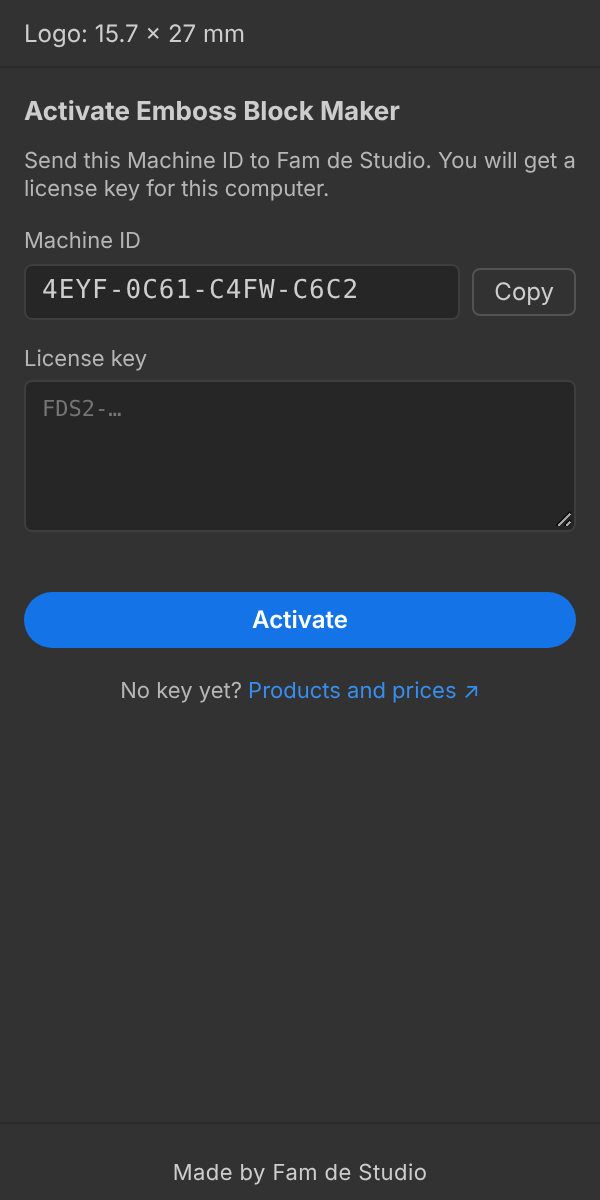
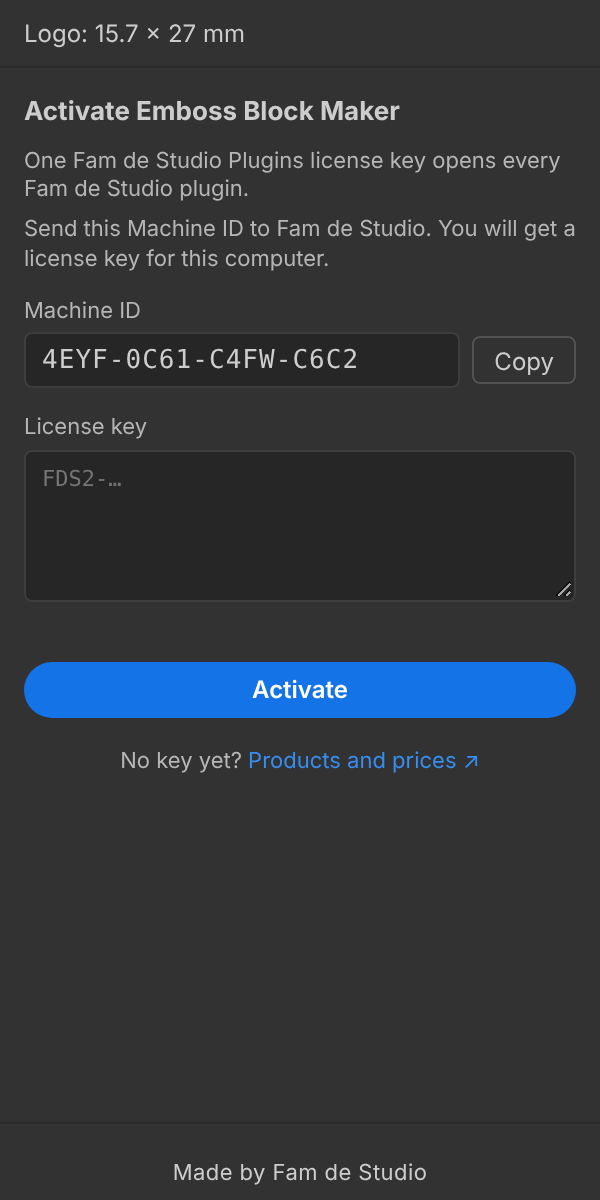
Plans and pricing: one Plugins licence for every Illustrator plugin, PlateFix on its own, Full Package; new plugin Approval Proof

diff --git a/README.md b/README.md
@@ -2,17 +2,18 @@
 
 **Professional prepress tools for printing and packaging, by Fam de Studio.**
 
-Save hours of repetitive work on every job: plate-ready PDFs, printer marks, ups numbering, emboss blocks and image checks, done in seconds and done the same way every time.
+Save hours of repetitive work on every job: plate-ready PDFs, printer marks, ups numbering, emboss blocks, image checks and client approval proofs, done in seconds and done the same way every time.
 
-| Product | Type | What it does |
-|---|---|---|
-| **PlateFix** | Windows app | Cuts print-ready PDFs to plate size, merges spot colours, sets black overprint, checks every file |
-| **Print Marks** | Adobe Illustrator plugin | Crop marks, side lay, gray scale, job slug and ink boxes on the press sheet |
-| **Ups Number** | Adobe Illustrator plugin, included with Print Marks | Numbers every up on the sheet from one 01, with the shift / year mark |
-| **Emboss Block Maker** | Adobe Illustrator plugin | Builds a complete emboss block sheet from any logo or text in one click |
-| **Image Check** | Adobe Illustrator plugin | Finds every RGB image, low resolution image and missing link in the file, linked or embedded |
+| Product | Type | Licence | What it does |
+|---|---|---|---|
+| **PlateFix** | Windows app | PlateFix | Cuts print-ready PDFs to plate size, merges spot colours, sets black overprint, checks every file |
+| **Print Marks** | Adobe Illustrator plugin | Plugins | Crop marks, side lay, gray scale, job slug and ink boxes on the press sheet |
+| **Ups Number** | Adobe Illustrator plugin | Plugins | Numbers every up on the sheet from one 01, with the shift / year mark |
+| **Emboss Block Maker** | Adobe Illustrator plugin | Plugins | Builds a complete emboss block sheet from any logo or text in one click |
+| **Image Check** | Adobe Illustrator plugin | Plugins | Finds every RGB image, low resolution image and missing link in the file, linked or embedded |
+| **Approval Proof** | Adobe Illustrator plugin | Plugins | Ready-to-send client proofs (JPEG / PDF) with the die line sizes measured for you |
 
-**Try any product free for 7 days.** One installer, pick only what you need.
+**One Plugins licence opens every Illustrator plugin. PlateFix has its own licence.** Try either one free for 7 days. One installer, pick only what you need.
 
 ---
 
@@ -48,7 +49,7 @@ Select the dieline and click **Add Marks**. Everything a press sheet needs, in y
 
 <img src="docs/screenshots/ups-number.png" width="260" align="right" alt="Ups Number panel">
 
-Its own panel, **included with Print Marks** (the same licence key opens both). Type **01** in one up, select it and click **Number the Ups**:
+Its own panel, opened by the same **Plugins** licence as Print Marks. Type **01** in one up, select it and click **Number the Ups**:
 
 - Every up on the sheet gets its number: 01, 02, 03 ... in the order you choose (6 directions along rows or columns).
 - Works on joined ups too, including turned and mirrored ups; numbers are turned with their up.
@@ -88,32 +89,63 @@ Open the panel and every image in the file is checked at once, before the file g
 
 <br clear="right">
 
+## Approval Proof
+
+<img src="docs/screenshots/approval-proof.png" width="260" align="right" alt="Approval Proof panel">
+
+Fill in the job details once and click **Make Proof**. Three kinds of proof, ready to send to the client on WhatsApp or email:
+
+- **Simple:** the die line sizes and one slim line of job details (job, client, size, material, finish, quantity, proof number, date, your company) drawn **on your own artboard**, around your design. No new page, no copy of the artwork, and the artboard size is not changed.
+- **Size only:** the same, with only the die line sizes, nothing else.
+- **Full:** a complete A4 / A3 approval sheet on its own page: the design, job details, the colours used and a client approval box (Approved / Approved with changes / Not approved, name, signature, date).
+
+Every proof:
+
+- **Measures the die line for you:** the flat width and height, and every panel size between the crease lines. The die line is found by its colour, whatever it is called. The measurements keep at least 5 mm away from the die line, in one **font size** you choose.
+- **Save JPEG** for WhatsApp in one click (or a small PDF, or a high quality PDF), next to your .ai file. The size lines are included even when they sit outside your artboard.
+- **Remove Proof** takes the proof away again before the file goes to print. Your artwork is never touched.
+- Keeps the job details for the next proof and can add your logo and a **FOR APPROVAL ONLY** watermark.
+
+<br clear="right">
+
+<img src="docs/screenshots/approval-proof-sheet.png" width="520" alt="A sample Simple proof on the job's own artboard">
+
 ---
 
 ## Plans and pricing
 
-| | Monthly | Yearly | Lifetime |
-|---|---:|---:|---:|
-| **PlateFix** | PKR 2,500 | PKR 20,000 | PKR 40,000 |
-| **Print Marks** (with Ups Number) | PKR 3,000 | PKR 25,000 | PKR 50,000 |
-| **Emboss Block Maker** | PKR 1,500 | PKR 12,000 | PKR 25,000 |
-| **Image Check** | PKR 1,000 | PKR 8,000 | PKR 15,000 |
-| **Full Package (all four)** | **PKR 5,500** | **PKR 45,000** | **PKR 90,000** |
+Two licences: **Plugins** opens *every* Adobe Illustrator plugin (Print Marks, Ups Number, Emboss Block Maker, Image Check, Approval Proof, and every plugin added later), and **PlateFix** is its own licence. The **Full Package** is both together, for less.
 
-- **Yearly plans** cost about 3 months less than paying monthly.
-- **Full Package** saves about 30% compared with buying the products one by one.
+**Pakistan (PKR)**
+
+| Licence | Includes | Monthly | Yearly | Lifetime |
+|---|---|---:|---:|---:|
+| **Plugins** | Print Marks, Ups Number, Emboss Block Maker, Image Check, Approval Proof and new plugins | PKR 4,000 | PKR 32,000 | PKR 64,000 |
+| **PlateFix** | The PlateFix Windows app | PKR 2,500 | PKR 20,000 | PKR 40,000 |
+| **Full Package** | Plugins + PlateFix | **PKR 6,000** | **PKR 48,000** | **PKR 96,000** |
+
+**Outside Pakistan (USD)**
+
+| Licence | Includes | Monthly | Yearly | Lifetime |
+|---|---|---:|---:|---:|
+| **Plugins** | Print Marks, Ups Number, Emboss Block Maker, Image Check, Approval Proof and new plugins | $25 | $200 | $400 |
+| **PlateFix** | The PlateFix Windows app | $15 | $120 | $240 |
+| **Full Package** | Plugins + PlateFix | **$37** | **$296** | **$592** |
+
+- **Yearly** costs the same as 8 months: you get **4 months free**.
+- **Lifetime** costs 2 yearly payments: pay once, no renewal.
+- **Full Package** is about **8% cheaper** than buying Plugins and PlateFix separately, on every plan (monthly, yearly and lifetime).
 - **Second computer** in the same company: half price.
 - **Site licence** (every computer in your company): 3 × the yearly price.
-- **Outside Pakistan:** PlateFix $15 / month or $129 / year · Print Marks $19 / $159 · Emboss Block Maker $9 / $79 · Image Check $6 / $49 · **Full Package $35 / month or $299 / year**.
 
 ## Free 7-day trial
 
-Every product can be tried **free for 7 days with all features**, without payment:
+The Plugins licence and PlateFix can each be tried **free for 7 days with all features**, without payment:
 
-1. Install the products you want to try (see below).
-2. Open the product. It shows your computer's **Machine ID** (for example `7K2M-QX9D-4HTP-0ZRB`).
-3. Send the Machine ID to Fam de Studio and ask for a trial.
-4. Paste the trial key you receive and click **Activate**.
+1. Install what you want to try (see below).
+2. Open a plugin (or PlateFix). It shows your computer's **Machine ID** (for example `7K2M-QX9D-4HTP-0ZRB`); tap **Copy** and send it to Fam de Studio.
+3. Ask for a trial.
+4. Paste the trial key you receive and click **Activate**. One Plugins key opens every Illustrator plugin.
 
 When you buy, you receive a new key for the same computer, so nothing needs to be reinstalled. Your settings and presets stay.
 
@@ -121,7 +153,7 @@ When you buy, you receive a new key for the same computer, so nothing needs to b
 
 <img src="docs/screenshots/activation.png" width="260" align="right" alt="Activation screen">
 
-- Each product has its own licence key, made for **your computer**.
+- **One Plugins key opens every Illustrator plugin**; PlateFix has its own key. Each key is made for **your computer**.
 - Activation works **offline**: no account, no internet connection needed.
 - A reminder appears 5 days before a monthly or yearly licence ends; renewing only means pasting a new key.
 - Moving to a new computer: send the new Machine ID and you get a key for it.
@@ -136,7 +168,7 @@ When you buy, you receive a new key for the same computer, so nothing needs to b
 2. Run **`FamDeStudioTools_Setup_<version>.exe`**.
 3. Tick the products you want: one, some or all of them.
 4. Open them:
-   - Illustrator plugins: **Window > Extensions (Legacy) > Print Marks / Ups Number / Emboss Block Maker / Image Check**
+   - Illustrator plugins: **Window > Extensions (Legacy) > Print Marks / Ups Number / Emboss Block Maker / Image Check / Approval Proof**
    - PlateFix: **Start menu > Fam de Studio > PlateFix**
 
 **Updates:** when a new version is out, the tools show a short notice with a **Download** link. Updates install over the old version; licences, presets and settings are kept. To remove: **Windows Settings > Apps > Fam de Studio Tools > Uninstall**.
